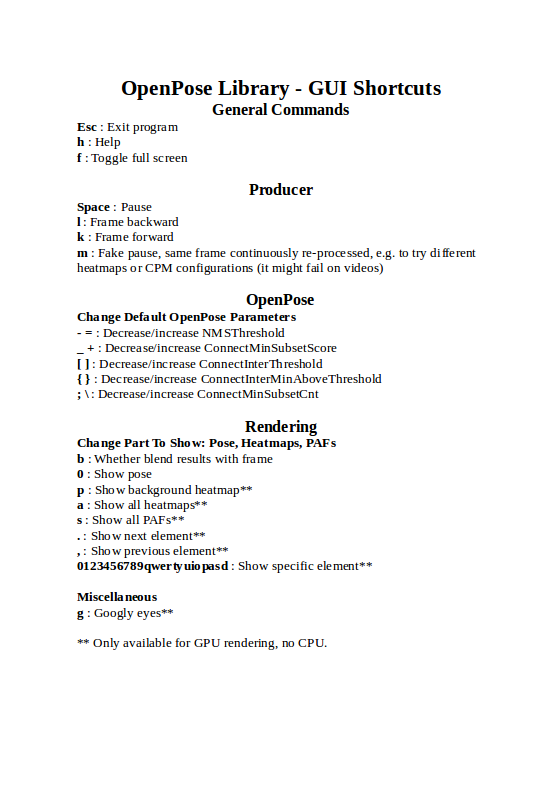
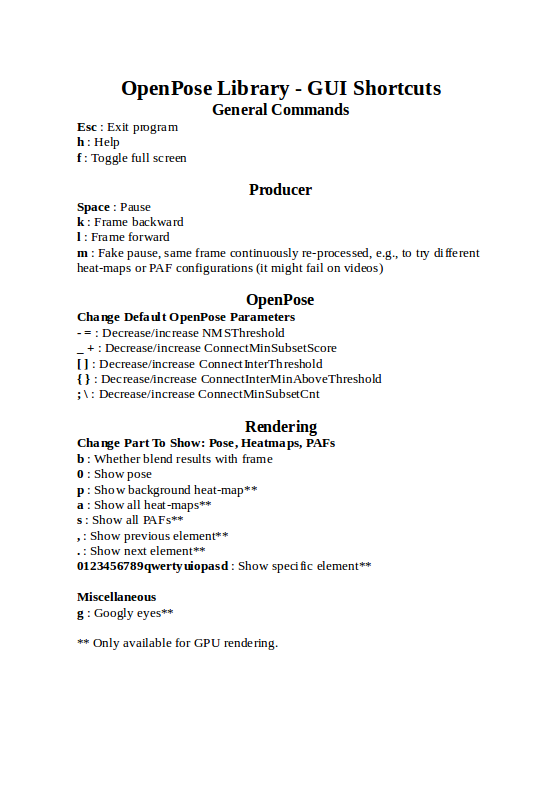
Rescaled GUI text at image size

diff --git a/src/openpose/gui/guiInfoAdder.cpp b/src/openpose/gui/guiInfoAdder.cpp
@@ -59,7 +59,7 @@ namespace op
     }
 
     void GuiInfoAdder::addInfo(cv::Mat& cvOutputData, const int numberPeople, const unsigned long long id,
-                               const std::string& elementRenderedName)
+                               const std::string& elementRenderedName, const unsigned long long frameNumber)
     {
         try
         {
@@ -78,7 +78,7 @@ namespace op
             // Recording inverse: sec/gpu
             // std::snprintf(charArrayAux, 15, "%4.2f s/gpu", (mFps != 0. ? mNumberGpus/mFps : 0.));
             putTextOnCvMat(cvOutputData, charArrayAux, {intRound(cvOutputData.cols - borderMargin), borderMargin},
-                           white, true);
+                           white, true, cvOutputData.cols);
             // Part to show
             // Allowing some buffer when changing the part to show (if >= 2 GPUs)
             // I.e. one GPU might return a previous part after the other GPU returns the new desired part, it looks
@@ -96,14 +96,14 @@ namespace op
             putTextOnCvMat(cvOutputData, "OpenPose - " +
                            (!mLastElementRenderedName.empty() ?
                                 mLastElementRenderedName : (mGuiEnabled ? "'h' for help" : "")),
-                           {borderMargin, borderMargin}, white, false);
+                           {borderMargin, borderMargin}, white, false, cvOutputData.cols);
             // Frame number
-            putTextOnCvMat(cvOutputData, "Frame: " + std::to_string(id),
-                           {borderMargin, (int)(cvOutputData.rows - borderMargin)}, white, false);
+            putTextOnCvMat(cvOutputData, "Frame: " + std::to_string(frameNumber),
+                           {borderMargin, (int)(cvOutputData.rows - borderMargin)}, white, false, cvOutputData.cols);
             // Number people
             putTextOnCvMat(cvOutputData, "People: " + std::to_string(numberPeople),
                            {(int)(cvOutputData.cols - borderMargin), (int)(cvOutputData.rows - borderMargin)},
-                           white, true);
+                           white, true, cvOutputData.cols);
         }
         catch (const std::exception& e)
         {

diff --git a/include/openpose/utilities/openCv.hpp b/include/openpose/utilities/openCv.hpp
@@ -7,9 +7,11 @@
 
 namespace op
 {
-    OP_API void putTextOnCvMat(cv::Mat& cvMat, const std::string& textToDisplay, const Point<int>& position, const cv::Scalar& color, const bool normalizeWidth);
+    OP_API void putTextOnCvMat(cv::Mat& cvMat, const std::string& textToDisplay, const Point<int>& position,
+                   const cv::Scalar& color, const bool normalizeWidth, const int imageWidth);
 
-    OP_API void floatPtrToUCharCvMat(cv::Mat& uCharCvMat, const float* const floatPtrImage, const std::array<int, 3> resolutionSize);
+    OP_API void floatPtrToUCharCvMat(cv::Mat& uCharCvMat, const float* const floatPtrImage,
+                                     const std::array<int, 3> resolutionSize);
 
     OP_API void unrollArrayToUCharCvMat(cv::Mat& cvMatResult, const Array<float>& array);
 
@@ -17,7 +19,8 @@ namespace op
 
     OP_API double resizeGetScaleFactor(const Point<int>& initialSize, const Point<int>& targetSize);
 
-    OP_API cv::Mat resizeFixedAspectRatio(const cv::Mat& cvMat, const double scaleFactor, const Point<int>& targetSize, const int borderMode = cv::BORDER_CONSTANT,
+    OP_API cv::Mat resizeFixedAspectRatio(const cv::Mat& cvMat, const double scaleFactor, const Point<int>& targetSize,
+                                          const int borderMode = cv::BORDER_CONSTANT,
                                           const cv::Scalar& borderValue = cv::Scalar{0,0,0});
 }
 

diff --git a/include/openpose/producer/datumProducer.hpp b/include/openpose/producer/datumProducer.hpp
@@ -97,6 +97,7 @@ namespace op
                     spVideoSeek->second = 0;
                 }
                 auto nextFrameName = spProducer->getNextFrameName();
+                auto nextFrameNumber = (unsigned long long)spProducer->get(CV_CAP_PROP_POS_FRAMES);
                 auto cvMats = spProducer->getFrames();
                 auto cameraMatrices = spProducer->getCameraMatrices();
                 // Check frames are not empty
@@ -108,6 +109,7 @@ namespace op
                     auto& datum = (*datums)[0];
                     // Filling first element
                     std::swap(datum.name, nextFrameName);
+                    datum.frameNumber = nextFrameNumber;
                     datum.cvInputData = cvMats[0];
                     if (!cameraMatrices.empty())
                         datum.cameraMatrix = cameraMatrices[0];
@@ -133,6 +135,7 @@ namespace op
                         {
                             auto& datumI = (*datums)[i];
                             datumI.name = datum.name;
+                            datumI.frameNumber = datum.frameNumber;
                             datumI.cvInputData = cvMats[i];
                             datumI.cvOutputData = datumI.cvInputData;
                             if (cameraMatrices.size() > i)

diff --git a/src/openpose/utilities/openCv.cpp b/src/openpose/utilities/openCv.cpp
@@ -4,15 +4,16 @@
 namespace op
 {
     void putTextOnCvMat(cv::Mat& cvMat, const std::string& textToDisplay, const Point<int>& position,
-                        const cv::Scalar& color, const bool normalizeWidth)
+                        const cv::Scalar& color, const bool normalizeWidth, const int imageWidth)
     {
         try
         {
             const auto font = cv::FONT_HERSHEY_SIMPLEX;
+            const auto ratio = imageWidth/1280.;
             // const auto fontScale = 0.75;
-            const auto fontScale = 0.8;
-            const auto fontThickness = 2;
-            const auto shadowOffset = 2;
+            const auto fontScale = 0.8 * std::sqrt(ratio);
+            const auto fontThickness = std::max(1, intRound(2*ratio));
+            const auto shadowOffset = std::max(1, intRound(2*ratio));
             int baseline = 0;
             const auto textSize = cv::getTextSize(textToDisplay, font, fontScale, fontThickness, &baseline);
             const cv::Size finalPosition{position.x - (normalizeWidth ? textSize.width : 0),

diff --git a/src/openpose/gui/gui.cpp b/src/openpose/gui/gui.cpp
@@ -73,10 +73,10 @@ namespace op
                     {
                         // Normal case, +-30 frames
                         if (!videoSeekSharedPtr->first)
-                            videoSeekSharedPtr->second += 30 * (castedKey=='l' ? -2 : 1);
+                            videoSeekSharedPtr->second += 30 * (castedKey=='k' ? -2 : 1);
                         // Frame by frame (if forced paused)
                         else
-                            videoSeekSharedPtr->second += (castedKey=='l' ? -1 : 1);
+                            videoSeekSharedPtr->second += (castedKey=='k' ? -1 : 1);
                     }
                 }
                 // Enable/disable blending

diff --git a/include/openpose/gui/wGuiInfoAdder.hpp b/include/openpose/gui/wGuiInfoAdder.hpp
@@ -58,7 +58,7 @@ namespace op
                 for (auto& tDatum : *tDatums)
                     spGuiInfoAdder->addInfo(tDatum.cvOutputData, std::max(tDatum.poseKeypoints.getSize(0),
                                                                           tDatum.faceKeypoints.getSize(0)),
-                                            tDatum.id, tDatum.elementRendered.second);
+                                            tDatum.id, tDatum.elementRendered.second, tDatum.frameNumber);
                 // Profiling speed
                 Profiler::timerEnd(profilerKey);
                 Profiler::printAveragedTimeMsOnIterationX(profilerKey, __LINE__, __FUNCTION__, __FILE__);

diff --git a/include/openpose/core/datum.hpp b/include/openpose/core/datum.hpp
@@ -22,6 +22,13 @@ namespace op
          */
         std::string name;
 
+        /**
+         * Corresponding frame number.
+         * If the producer (e.g., video) starts from frame 0 and does not repeat any frame, then frameNumber should
+         * match the field id.
+         */
+        unsigned long long frameNumber;
+
         // ------------------------------ Input image and rendered version parameters ------------------------------ //
         /**
          * Original image to be processed in cv::Mat uchar format.

diff --git a/include/openpose/gui/guiInfoAdder.hpp b/include/openpose/gui/guiInfoAdder.hpp
@@ -13,7 +13,7 @@ namespace op
         GuiInfoAdder(const int numberGpus, const bool guiEnabled = false);
 
         void addInfo(cv::Mat& cvOutputData, const int numberPeople, const unsigned long long id,
-                     const std::string& elementRenderedName);
+                     const std::string& elementRenderedName, const unsigned long long frameNumber);
 
     private:
         // Const variables

diff --git a/src/openpose/producer/videoReader.cpp b/src/openpose/producer/videoReader.cpp
@@ -42,7 +42,7 @@ namespace op
     {
         try
         {
-            return {};
+            return mCameraParameterReader.getCameraMatrices();
         }
         catch (const std::exception& e)
         {

diff --git a/doc/release_notes.md b/doc/release_notes.md
@@ -191,6 +191,9 @@ OpenPose Library - Release Notes
     19. Flag `--camera_resolution` applicable to `--flir_camera`.
     20. Throw error message if requested GPU IDs does not exist (e.g. asking for 2 GPUs starting in ID 1 if there is only 2 GPUs in total).
     21. VideoSaver (`--write_video`) compatible with multi-camera setting. It will save all the different views concatenated.
+    22. OpenPose small GUI rescale the verbose text to the displayed image, to avoid the text to be either too big or small.
+    23. OpenPose small GUI shows the frame number w.r.t. the original producer, rather than the frame id. E.g., if video is started at frame 30, OpenPose will display 30 rather than 0 in the first frame.
+    23. OpenPose GUI: 'l' and 'k' functionality swapped.
 2. Functions or parameters renamed:
     1. Flag `no_display` renamed as `display`, able to select between `NoDisplay`, `Display2D`, `Display3D`, and `DisplayAll`.
     2. 3-D reconstruction demo is now inside the OpenPose demo binary.
